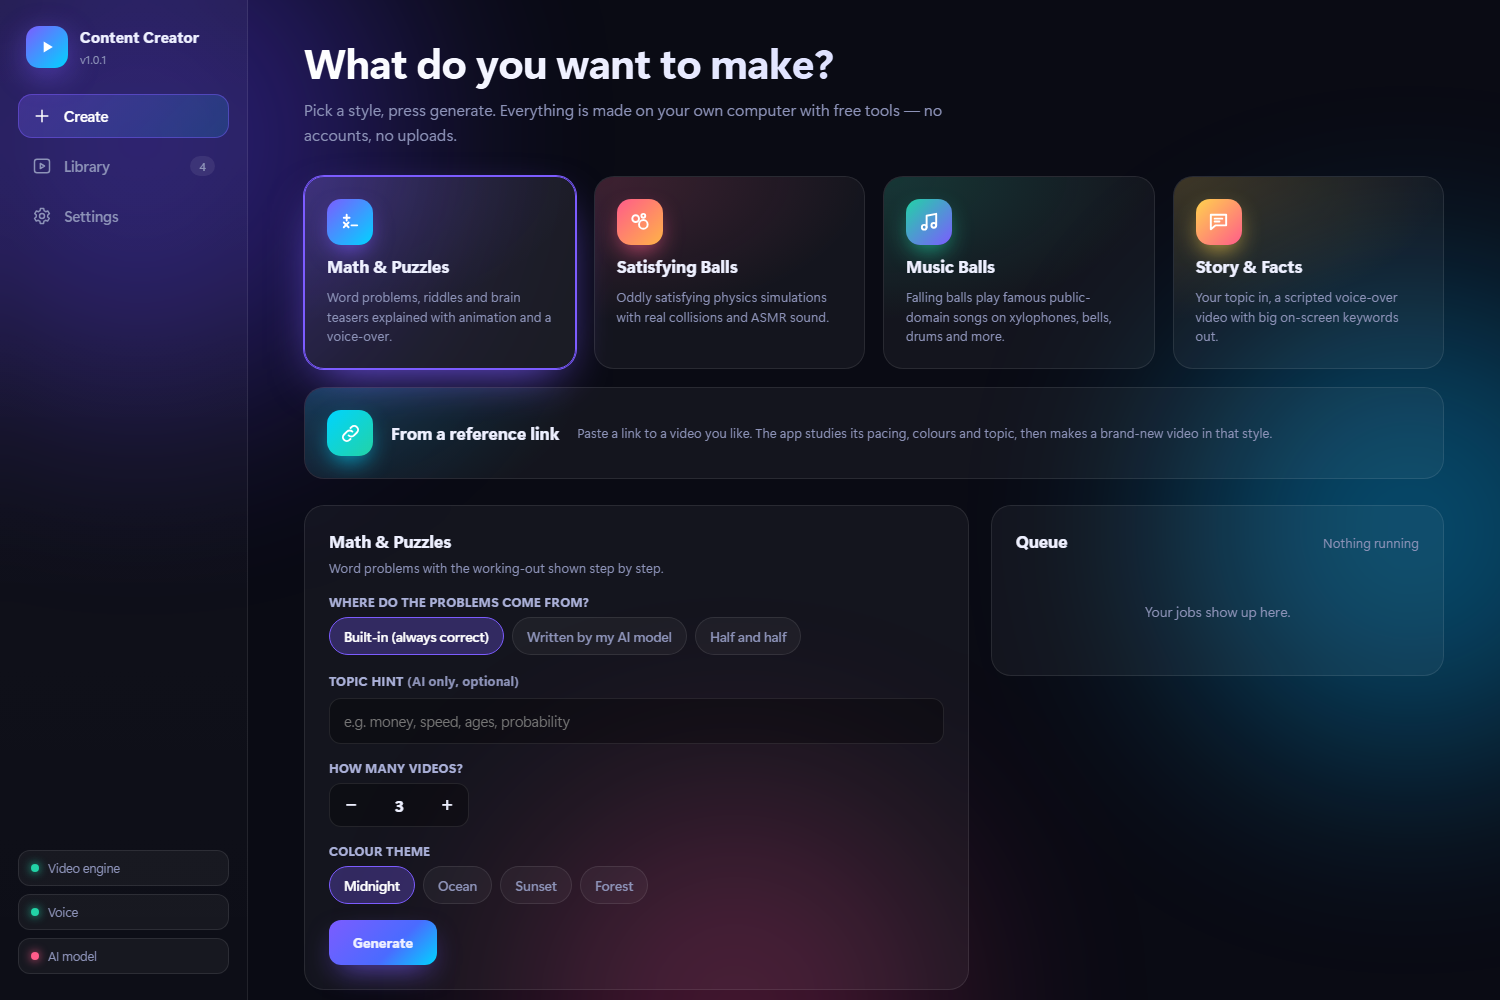
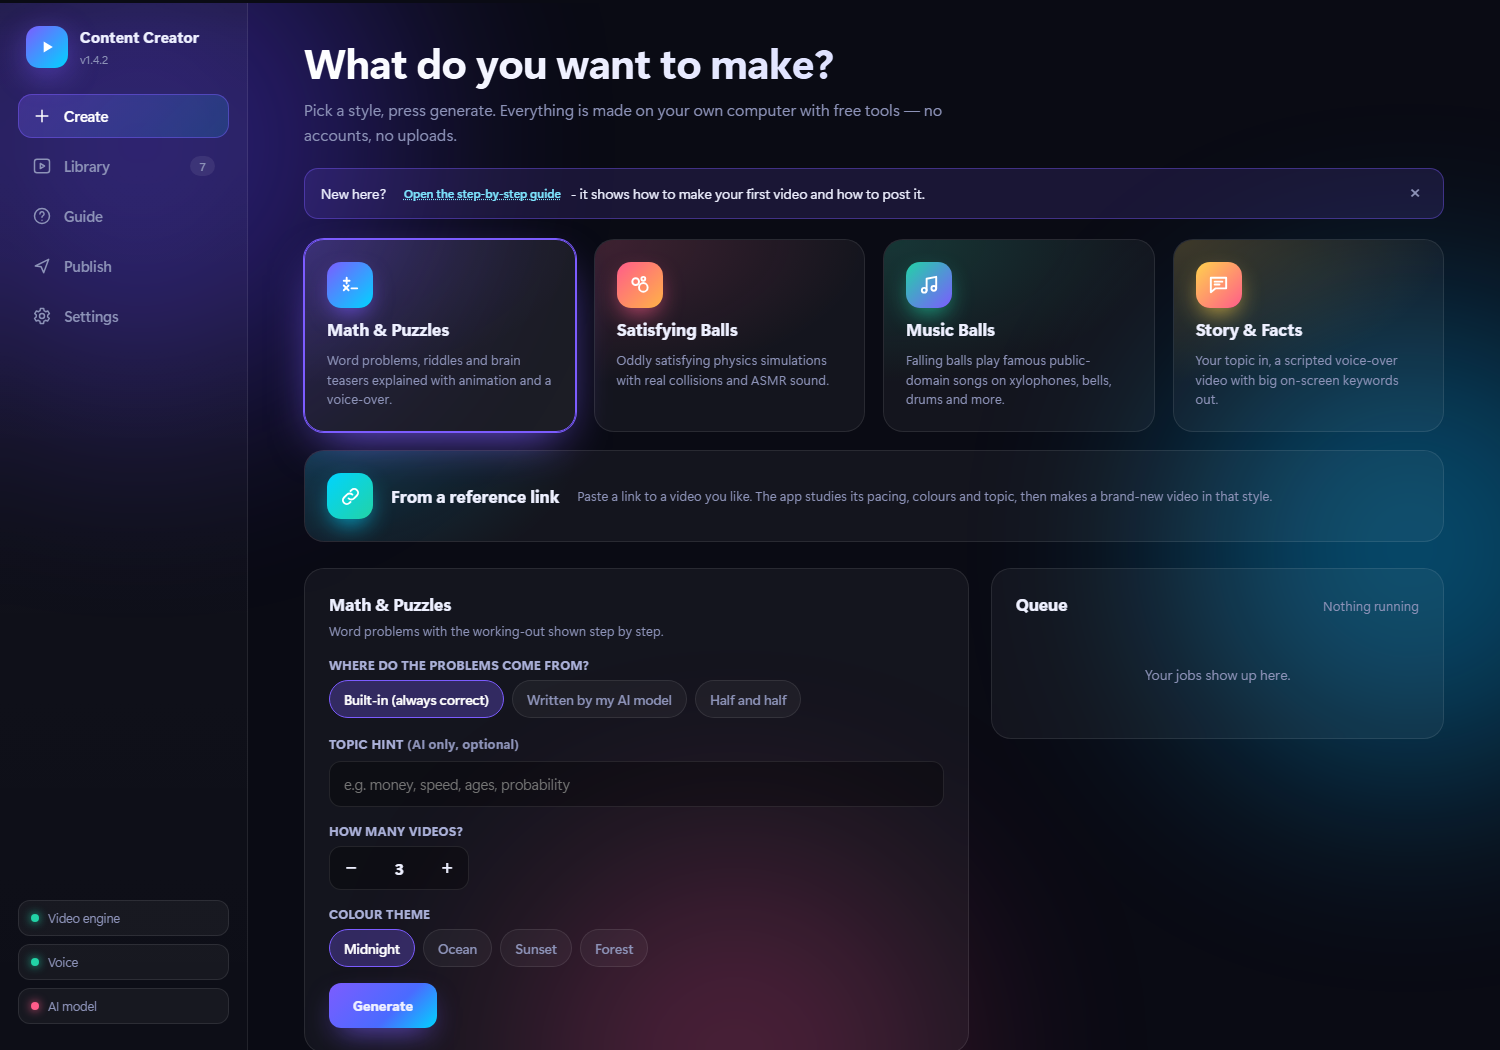
README: one-line PowerShell install at the top, refreshed screenshots (Guide, Publish, Settings, Library)

diff --git a/README.md b/README.md
@@ -1,76 +1,99 @@
 # AI Content Creator
 
-Make short vertical videos on your own computer, for free: **math puzzles**, **satisfying ball simulations**, **music played by falling balls**,
-**story/fact videos**, and new videos **inspired by a reference link**. No accounts, no uploads - everything runs locally.
+Make short vertical videos on your own computer, for free: **math puzzles**, **satisfying ball simulations (ASMR)**, **music played by falling balls**,
+**story / fact videos**, and new videos **inspired by a reference link**. Then schedule them on **Facebook and Instagram**.
+No accounts needed to create, nothing is uploaded unless you publish.
 
-- Beautiful web UI (opens in your browser) - not a plain desktop window
+- Modern web interface (opens in your browser, runs quietly in the background - no black window)
 - Local AI through **Ollama** (writes problems and scripts, studies reference videos)
-- Voice-over with **Kokoro** (offline), timing with **Whisper** (offline), video with **ffmpeg** (bundled)
-- Built-in **auto-update**: a banner appears when a new version is published; one click updates and keeps your videos
+- Voice-over with **Kokoro** (offline), word timing with **Whisper** (offline), video with **ffmpeg** (bundled)
+- Built-in step-by-step **Guide** for beginners, and **auto-update** with one click
 
-## Screenshots
+## Install in one step (Windows)
 
-<p align="center"><img src="docs/screenshots/create-math.png" alt="Create page with the Math composer and the live queue" width="900"></p>
+Open **PowerShell** (Start menu, type `PowerShell`, Enter) and paste this single line:
 
-| Music Balls | From a reference link |
-|---|---|
-| <img src="docs/screenshots/create-music.png" alt="Music composer"> | <img src="docs/screenshots/reference.png" alt="Reference link composer"> |
+```powershell
+Set-ExecutionPolicy -Scope Process Bypass -Force; irm https://raw.githubusercontent.com/Shani0017/AI-Content-Creator/main/install.ps1 | iex
+```
 
-| Library | Settings and AI model |
-|---|---|
-| <img src="docs/screenshots/library.png" alt="Library"> | <img src="docs/screenshots/settings.png" alt="Settings"> |
-
-**A generated math video** (frames from a real render):
-
-<p align="center"><img src="docs/screenshots/video-math.jpg" alt="Frames from a generated math video" width="760"></p>
-
-## Install (Windows) - one command
-
-Open **cmd** (Windows key, type `cmd`, Enter) and paste this single line:
+<sub>Prefer the classic **cmd** window? Paste this instead:</sub>
 
 ```
 powershell -NoProfile -ExecutionPolicy Bypass -Command "irm https://raw.githubusercontent.com/Shani0017/AI-Content-Creator/main/install.ps1 | iex"
 ```
 
-It installs Python 3.11 (if needed), the app, the video / voice / AI libraries, the voice files, Ollama and a small AI model, then creates a
-desktop shortcut and starts the app. Takes 10-20 minutes the first time (about 3 GB of downloads). Next time just double-click the shortcut.
+That one line does everything:
 
-### Manual install (if you prefer)
+1. installs **Python 3.11** if you do not have it
+2. downloads the app into `%USERPROFILE%\AI-Content-Creator`
+3. installs all libraries (video, voice, AI, publishing)
+4. downloads the voice files (about 340 MB)
+5. installs **Ollama** and a small AI model (`llama3.2:3b`)
+6. creates a **desktop shortcut** and starts the app
+
+It takes 10 to 20 minutes the first time (about 3 GB of downloads). Next time, just double-click the **AI Content Creator** shortcut.
+Updates later appear as a banner inside the app - one click.
+
+<details><summary>Manual install (if you prefer)</summary>
 
 1. Install **Python 3.11** from python.org (3.14 / 3.15 are too new for the speech packages).
 2. Install **Ollama** from https://ollama.com and open it once.
-3. Download this repo (green *Code* button > *Download ZIP*), unzip it anywhere.
-4. Double-click **`start.bat`**. The first run installs everything (a few minutes).
-5. In the app: **Settings** > download the voice files (about 340 MB) and an AI model (for example `llama3.2:3b`).
+3. Download this repo (green *Code* button > *Download ZIP*) and unzip it anywhere.
+4. Double-click **`start.bat`**. The first run installs everything.
+5. In the app: **Settings** > download the voice files and an AI model.
+</details>
 
-That is it. Pick a style on the **Create** page and press **Generate**. Finished videos appear in **Library** and in the `output` folder.
+## Screenshots
+
+<p align="center"><img src="docs/screenshots/create-math.png" alt="Create page with the Math composer and the live queue" width="900"></p>
+
+| Library | Publish (Facebook + Instagram) |
+|---|---|
+| <img src="docs/screenshots/library.png" alt="Library of generated videos"> | <img src="docs/screenshots/publish.png" alt="Publish page"> |
+
+| Step-by-step Guide | Settings |
+|---|---|
+| <img src="docs/screenshots/guide.png" alt="Guide page"> | <img src="docs/screenshots/settings.png" alt="Settings page"> |
+
+| Music Balls | From a reference link |
+|---|---|
+| <img src="docs/screenshots/create-music.png" alt="Music composer"> | <img src="docs/screenshots/reference.png" alt="Reference link composer"> |
+
+**A generated math video** (frames from a real render, drawn from the problem's own numbers):
+
+<p align="center"><img src="docs/screenshots/video-math.jpg" alt="Frames from a generated math video" width="760"></p>
 
 ## What each style does
 
 | Style | What you get |
 |---|---|
-| Math & Puzzles | Word problems explained step by step. Built-in templates are always correct; the AI option writes new ones and double-checks them. |
-| Satisfying Balls | ~80 physics simulations. Every video is audited so collisions are real and it ends when everything is done. |
-| Music Balls | Balls that play public-domain songs on xylophones, bells, glass bowls, drums, bricks and pads - each with its own look. |
+| Math & Puzzles | Word problems explained step by step with their own animated drawing (a clock at the real time, N people shaking hands, a lake filling with lily pads, doors, trains...). Built-in templates are always correct; the AI option writes new ones and double-checks them. |
+| Satisfying Balls | About 77 physics simulations. Every video is audited so collisions are real and it ends when everything is done. |
+| Music Balls | Balls that play public-domain songs on xylophones, bells, glass bowls, drums, bricks and pads, each with its own look. |
 | Story & Facts | You give a topic, the AI writes an original script, the app voices it with big keywords on screen. |
-| From a reference link | Paste a link. The app downloads it only to *study* it (pacing, colours, topic, tone) and then makes a **new, original** video in that style. |
+| From a reference link | Paste a link. The app studies its pace, colours, length and topic, then makes a **new, original** video in the closest style - automatically. |
 
-## Publish (Facebook + Instagram)
+## Publish to Facebook and Instagram
 
-New to this? Open the **Guide** page in the app: it explains every step in plain words, from your first video to posting on Facebook and Instagram.
+Open the **Publish** page (and the **Guide** for the step-by-step version):
 
-Open the **Publish** page, enter your Instagram / Facebook IDs and tokens and a public GitHub repo for hosting, choose posts per day and days, and press *Schedule*.
-Facebook posts are scheduled natively. Instagram is posted by a tiny script on your server: download the VPS package from the same page (Windows or Linux, Python only).
+- Enter your Instagram / Facebook IDs and tokens and a public GitHub repo for hosting.
+- Choose posts per day and days, press **Schedule**. Facebook posts are scheduled natively.
+- Instagram has no scheduling for apps, so the app gives you a tiny **VPS package** that posts each reel at its time (Windows or Linux, Python only).
+- **Check posts** compares what was scheduled with what is live.
+
 Tokens stay in `data/publish.json` on your computer and are never uploaded.
 
 ## No black window
 
-The app starts in the background (no console). Use the desktop shortcut that the installer creates, or *Settings > Create desktop shortcut*. To stop it, press *Settings > Quit the app*. Logs are in `data/app.log`.
+The app starts in the background. Use the desktop shortcut the installer creates, or **Settings > Create desktop shortcut**.
+Stop it with **Settings > Quit the app**. Logs are in `data/app.log`.
 
 ## Updating
 
-When the maintainer publishes a new version you see a banner at the top of the app. Click **Update now** - your videos, models and settings are kept.
-You can also press *Check now* in Settings.
+When a new version is published you see a banner at the top of the app. Click **Update now**: your videos, models and settings are kept.
+You can also press **Settings > Check now**. Or run the install line above again - it updates in place.
 
 ## Notes
 
